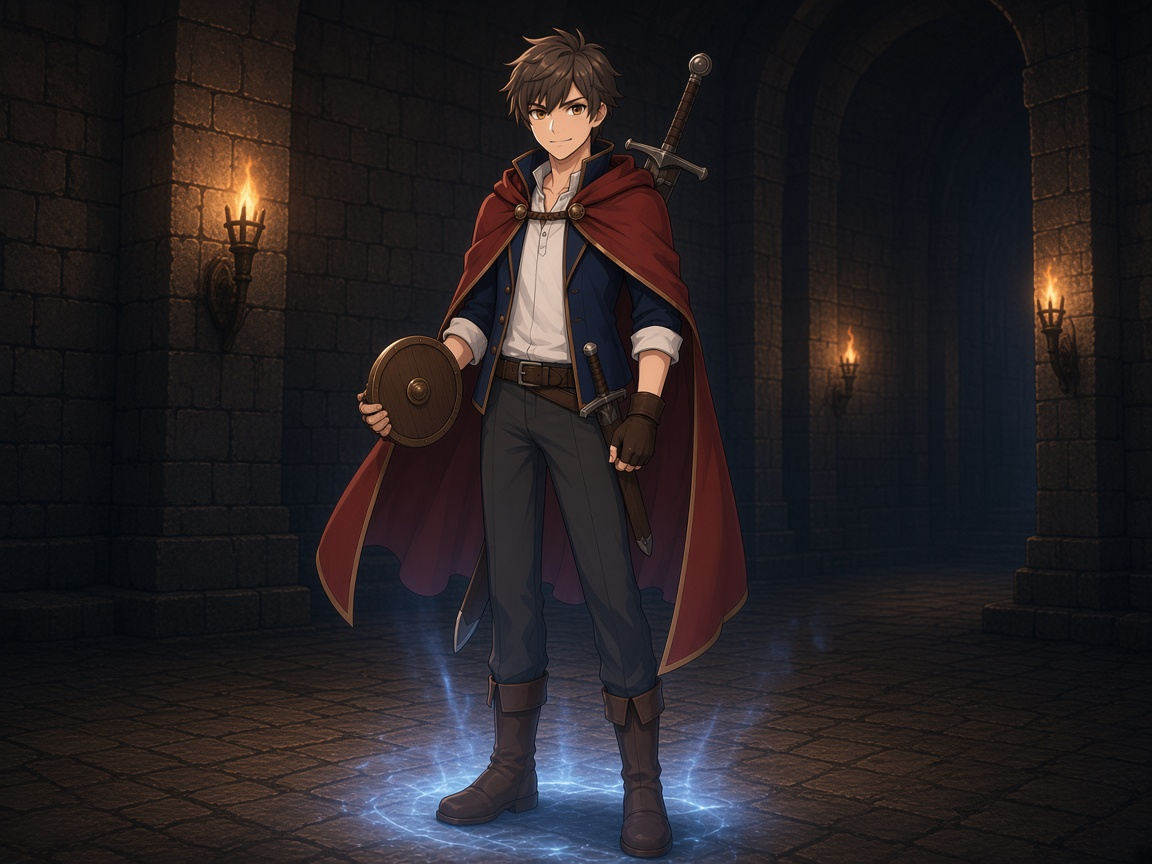
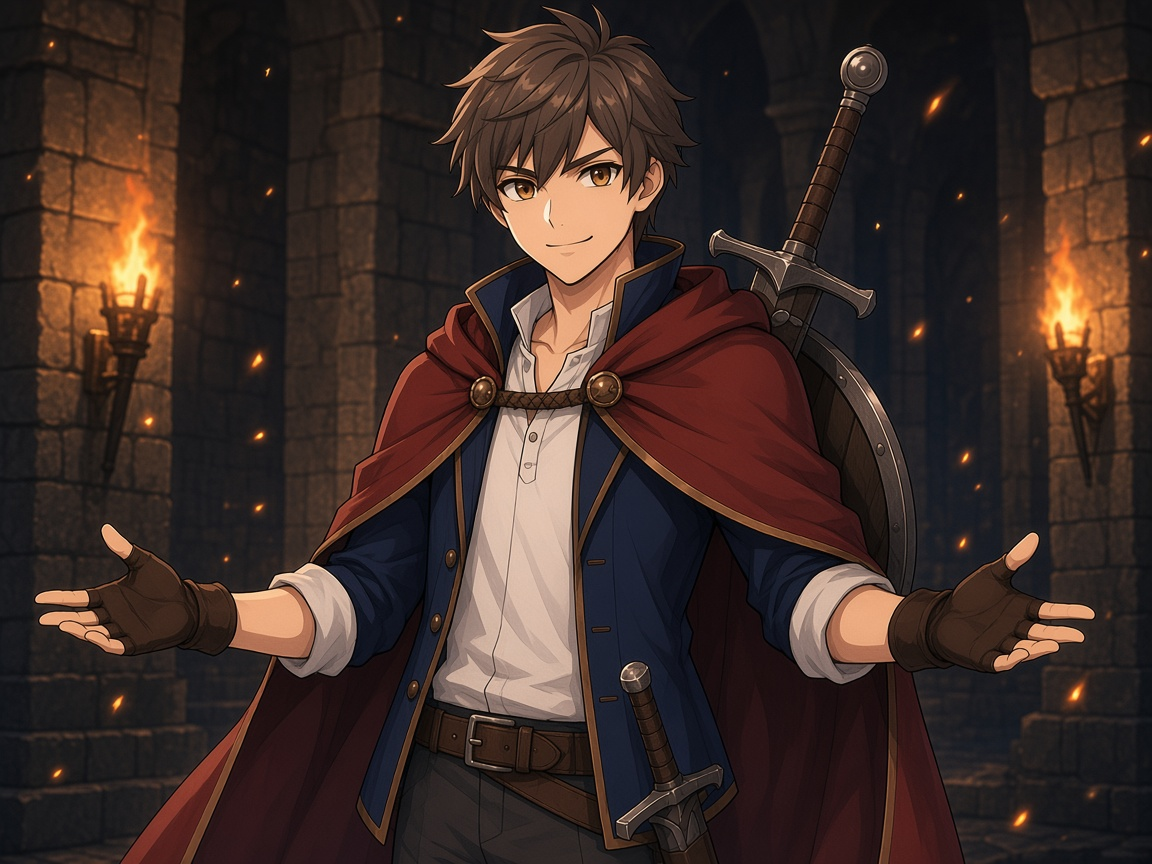
カード絵: 余裕の構えを両手を広げて笑う男戦士（手ぶら）に

diff --git a/index.html b/index.html
@@ -2884,7 +2884,7 @@
       臆病者の構え: "card-coward.jpg?v=1",
       ライフフルネスアタック: "card-lifefull.jpg?v=1",
       ジャストミート: "card-just-meet.jpg?v=1",
-      余裕の構え: "card-poise.jpg?v=1",
+      余裕の構え: "card-poise.jpg?v=2",
       致命の一撃: "card-fatal.jpg?v=1",
       シールドアタック: "card-shield-bash.jpg?v=2",
       斬撃: "card-slash.jpg?v=1",
@@ -5099,11 +5099,11 @@
               <figure><img class="card-ref" src="card-coward.jpg?v=1" alt=""><figcaption>臆病者の構え</figcaption></figure>
               <figure><img class="card-ref" src="card-lifefull.jpg?v=1" alt=""><figcaption>ライフフルネスアタック</figcaption></figure>
               <figure><img class="card-ref" src="card-just-meet.jpg?v=1" alt=""><figcaption>ジャストミート</figcaption></figure>
-              <figure><img class="card-ref" src="card-poise.jpg?v=1" alt=""><figcaption>余裕の構え</figcaption></figure>
+              <figure><img class="card-ref" src="card-poise.jpg?v=2" alt=""><figcaption>余裕の構え</figcaption></figure>
               <figure><img class="card-ref" src="card-fatal.jpg?v=1" alt=""><figcaption>致命の一撃</figcaption></figure>
               <figure><img class="card-ref" src="card-shield-bash.jpg?v=2" alt=""><figcaption>シールドアタック</figcaption></figure>
             </div>
-            <p class="sheet-cap">戦士専用の絵には戦士が出る。シールドアタックは、男の戦士がトゲつきの丸盾でゴブリンを殴りつける絵（戦士は背中側から、顔はほぼ見えない。背景は松明の洞窟）。</p>
+            <p class="sheet-cap">戦士専用の絵には戦士が出る。シールドアタックは、男の戦士がトゲつきの丸盾でゴブリンを殴りつける絵（戦士は背中側から、顔はほぼ見えない。背景は松明の洞窟）。余裕の構えは、男の戦士が両手を大きく広げて余裕の笑み。手には何も持たない（剣と盾は背中）。</p>
             <h4>共通</h4>
             <div class="ref-grid">
               <figure><img class="card-ref" src="card-slash.jpg?v=1" alt=""><figcaption>斬撃</figcaption></figure>
